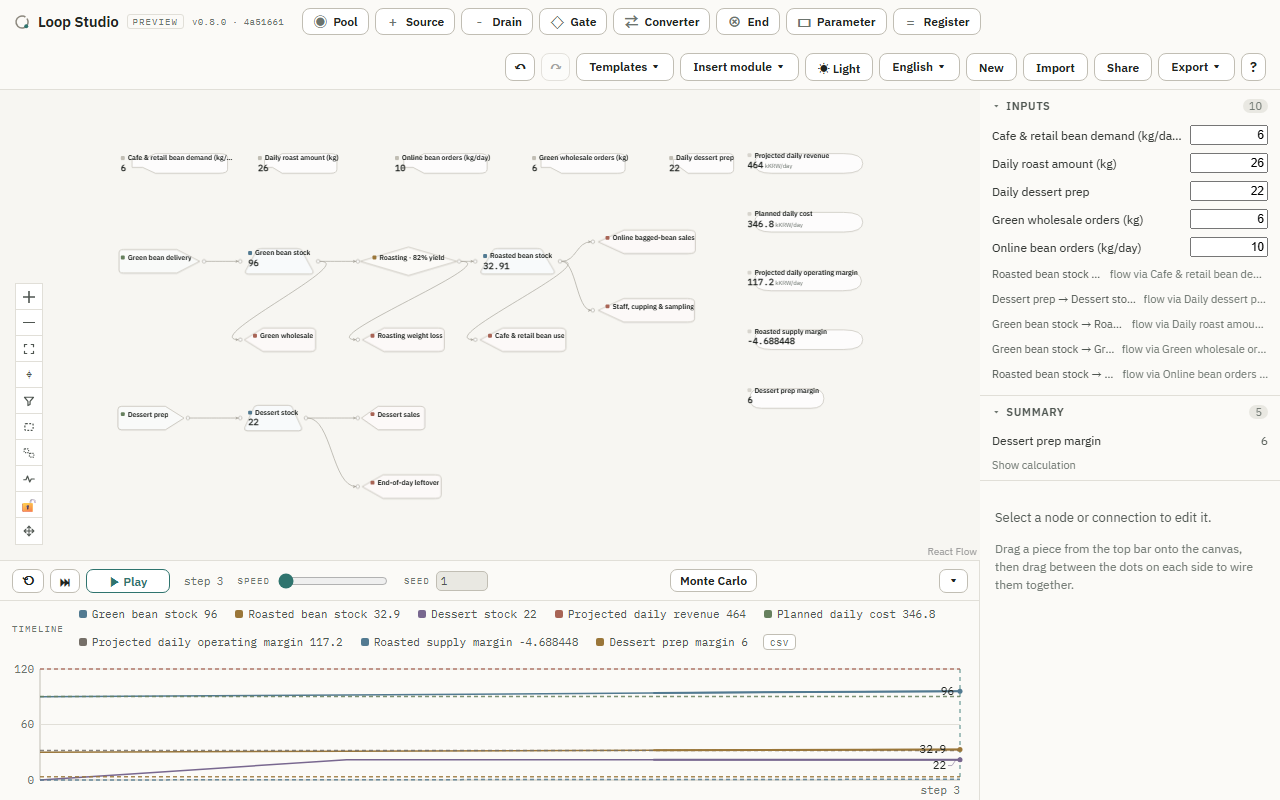
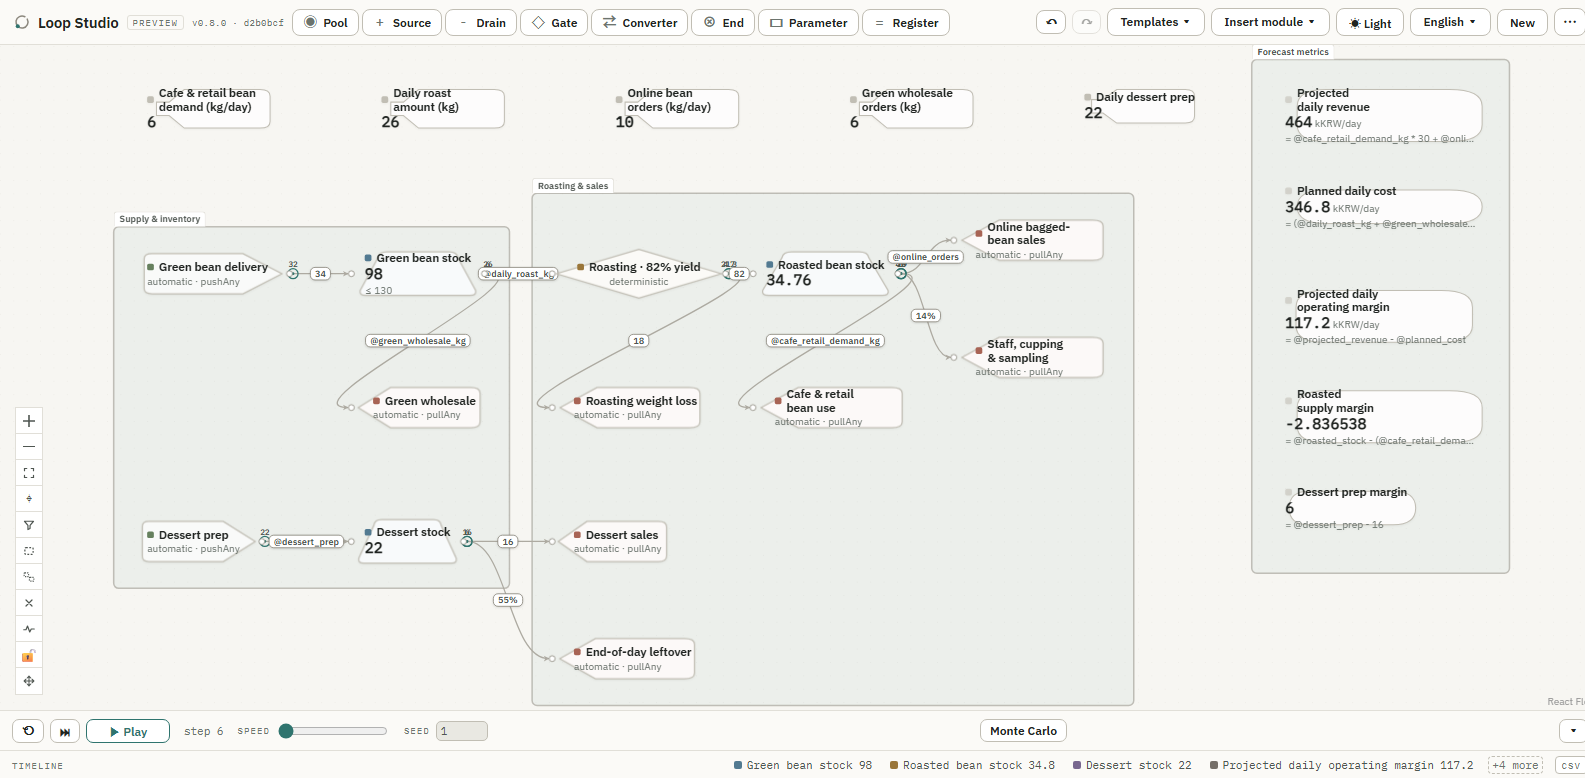
docs(readme): refresh for the current shipped state
- New hero image: the Coffee roastery Template on Production with its
  three localized zone frames (Supply & inventory / Roasting & sales /
  Forecast metrics), mid-run with the Timeline legend. 1585x778, 195 KB.
- Supported languages: English / 한국어 / 日本語 (was "EN + KO" in several
  places; the Releases changelog entry keeps its original wording with a
  parenthetical follow-up).
- Bundled Templates listed near the top: Balanced production line,
  Capacity deadlock, Early MMO progression, Coffee roastery.
- Mention the newer editor conveniences: multilingual Templates, group
  zone frames, the collapsible minimap, and the Timeline series picker.
- `examples/` layout row: drop the deleted `mmo-progression.ko.json`,
  add the two production-line samples.
- Template label overlay: it now also localizes the Coffee Template's
  group-frame titles, and re-seeds them on a language switch (a user
  rename is kept).

Docs only — no version change (stays v0.8.0), no code.

diff --git a/README.md b/README.md
@@ -1,6 +1,6 @@
 # Loop Studio
 
-![Loop Studio — the Coffee roastery Template, three steps in, with results building up in the Timeline](docs/assets/hero-coffee.png)
+![Loop Studio — the Coffee roastery Template grouped into three labelled zone frames (supply & inventory, roasting & sales, forecast metrics), a few steps into a run with the Timeline filling in](docs/assets/hero-coffee.png)
 
 ![A ~16-second walkthrough: loading the Coffee roastery Template, running it a few steps while the Timeline fills in, switching to the 97-node Early MMO progression example, then selecting a node and turning Focus on to dim everything outside its neighbourhood](docs/assets/demo.gif)
 
@@ -17,6 +17,12 @@ continuous-time equations and spatial physics are not directly supported (see
 [Future directions](#future-directions)).
 
 **Run it now — the live web app: <https://cozy-loop-studio.pages.dev>**
+
+The UI is available in **English**, **한국어**, and **日本語** (a runtime
+language menu; the choice is a local UI preference only). Four bundled
+**Templates** open in the current language: *Balanced production line*,
+*Capacity deadlock*, *Early MMO progression (levels 1–15)* (97 nodes), and
+*Coffee roastery operations flow*.
 
 > Status: **working preview** — **v0.8.0**. The diagram editor and the
 > simulation engine — deterministic,
@@ -42,20 +48,26 @@ continuous-time equations and spatial physics are not directly supported (see
 >
 > **New in v0.8.0:** three tracks —
 >
-> **Onboarding, part 2** — a **KO / EN localization** base (a runtime language
-> switch on a single bundle; the chosen language is a `localStorage`-only UI
+> **Onboarding, part 2** — a runtime **localization** base now shipping
+> **English, 한국어, and 日本語** (the chosen language is a `localStorage`-only UI
 > setting that never enters the GraphDoc, Workspace, Share link, or
 > `loop-revision/*` digest), full-app localization, a guided first-run tour, the
 > *Early MMO progression* example, and **contextual inline help** — four
 > situational, one-shot hints (an empty canvas, Monte Carlo's first open,
 > Review's first open, Focus/Filter discovery) plus a `Contextual help`
-> Help-menu entry — are all shipped.
+> Help-menu entry — are all shipped. Bundled **Templates** — including
+> *Early MMO progression* and the *Coffee roastery operations flow* — open in
+> the current language, and the Coffee Template also carries three labelled
+> **zone frames** whose titles follow the language switch.
 >
 > **Large-graph readability** ([`docs/large-graph-readability.md`](docs/large-graph-readability.md))
 > — an engine-neutral readability / UI feature set: a global hit-test rule +
 > 1-hop focus view, graph-derived filters, the `effective` / `evaluated` run
 > distinction, manual group frames + an opt-in activity overlay, an explicit
 > *Suggest frames* auto-clustering pass, and a five-preset frame accent colour.
+> Around it: a **collapsible minimap**, and a **Timeline series picker** so a
+> Template's first-run chart shows a curated set of pools / registers with the
+> rest one `+N more` click away.
 > **Saved frames** make a manual or promoted frame's `id` / `label` / `rect` /
 > `color` part of the document as a `loop-revision/5` **cosmetic** `frames`
 > block ([`SEMANTICS-R5.md`](SEMANTICS-R5.md), Frozen): it round-trips reload /
@@ -205,7 +217,7 @@ classification, or apply decision depends on them.
 | `src/components/` | Toolbar, canvas, inspector, custom node & edge views, Monte-Carlo dialog + charts |
 | `src/engine/` | Simulation engine — deterministic step, RNG, Monte Carlo, state connections |
 | `e2e/` | Playwright specs (app, portable `file://`, production build, PWA service worker, mobile view/run) |
-| `examples/` | Importable graphs and verification fixtures — `risky-factory.json`, the Early MMO progression and Coffee roastery Templates (`mmo-progression.json` + `.ko.json`, `coffee-roastery.json`), Engine-B / State / model-verification / playback-choreography fixtures each with an oracle, and the revision golden vectors `revision/` (`loop-revision/1` base + proposals + apply oracle), `revision-v2/`, `revision-v3/`, `revision-v5/`. See [`examples/README.md`](examples/README.md) |
+| `examples/` | Importable graphs and verification fixtures — `risky-factory.json`, the Early MMO progression and Coffee roastery Templates (`mmo-progression.json`, `coffee-roastery.json`) and the two production-line samples (`equilibrium.json`, `deadlock.json`), Engine-B / State / model-verification / playback-choreography fixtures each with an oracle, and the revision golden vectors `revision/` (`loop-revision/1` base + proposals + apply oracle), `revision-v2/`, `revision-v3/`, `revision-v5/`. See [`examples/README.md`](examples/README.md) |
 
 ## Roadmap
 
@@ -221,10 +233,10 @@ classification, or apply decision depends on them.
   - ✅ Label modifier — value semantics `loop-state/1`, event report `loop-state/2`
   - ✅ Inspector fields + in-canvas pulse / tint / flash
 - ✅ Onboarding, part 2 — **v0.8.0** ([`docs/localization.md`](docs/localization.md)) — the localization base, full-app localization, the guided first-run tour, the Early MMO example, and contextual inline help have all shipped
-  - ✅ Extensible localization base — registry-driven N-language structure with EN + KO as the first shipped locales; runtime language menu, atomic catalog activation, ICU formatting, EN fallback, and `localStorage`-only locale persistence. Locale state never enters GraphDoc / Workspace / Share / revision / digest / undo / simulation state
+  - ✅ Extensible localization base — a registry-driven N-language structure shipping **English, 한국어, and 日本語**; runtime language menu, atomic catalog activation, ICU formatting, EN fallback, and `localStorage`-only locale persistence. Locale state never enters GraphDoc / Workspace / Share / revision / digest / undo / simulation state
   - ✅ Full-app localization + acceptance validation — Toolbar, Canvas, Inspector, Timeline, Templates, Import / Export, Share, revision, PWA, dialogs, errors, empty states, accessibility text, KO typography, desktop / mobile visual references, invariance tests, and CI guards for catalog parity and hardcoded UI strings
   - ✅ Guided first-run tour ([`docs/guided-tour.md`](docs/guided-tour.md)) — a read-only six-step overlay (desktop + a separate mobile script), a Welcome card on the first run (`localStorage`-only, never serialized), and a Help (`?`) menu with `Take a tour` + `About Loop Studio`
-  - ✅ "Early MMO progression (levels 1–15)" example ([`docs/example-mmo-progression.md`](docs/example-mmo-progression.md)) — a shipped play-economy demo graph (three zone lanes, probabilistic combat with wins / setbacks / deaths, categorised loot, a gold economy with repair and resupply costs, a rising XP curve) as the third **Templates** entry, EN + KO; generalised, not game-specific, with by-construction accounting invariants and a tuned reach-15 window
+  - ✅ "Early MMO progression (levels 1–15)" example ([`docs/example-mmo-progression.md`](docs/example-mmo-progression.md)) — a shipped play-economy demo graph (three zone lanes, probabilistic combat with wins / setbacks / deaths, categorised loot, a gold economy with repair and resupply costs, a rising XP curve) as the third **Templates** entry, opening in the current language; generalised, not game-specific, with by-construction accounting invariants and a tuned reach-15 window
   - ✅ Contextual inline help ([`docs/contextual-inline-help.md`](docs/contextual-inline-help.md), `CIH`) — fills the gap the guided tour deliberately left: four situational, one-shot hints — an empty canvas, Monte Carlo's first open, Review's first open, and Focus/Filter discovery once a graph passes the auto-frame threshold — each shown once and re-armable ("Show again next time") from a **`Contextual help`** entry now live in both Help surfaces (desktop `?` menu, mobile More → Help). A three-tier priority defers to an open Monte Carlo / Review hint first, then an existing large-graph notice, then its own discovery hints, with a short cooldown after the guided tour closes so nothing piles up. Not a docs site, not video, not an interactive tutorial; presentation-only, same contract as the tour (§GT12) — no GraphDoc / digest / undo / simulation effect
 - ✅ Ship — **v0.4.0**
   - ✅ Workspace Export / Import (`loop-workspace/1`) — a graph file plus the run config, last distribution, timeline view, canvas, and a verified sim snapshot
@@ -273,8 +285,8 @@ classification, or apply decision depends on them.
     - ☐ Later (§MS10) — a dedicated assembly screen, a connection auto-helper, collapsible composite nodes, and any serialized `role` / `surfacedInputs` / `ports` field
   - ✅ Dense-graph pan usability ([`docs/dense-graph-pan.md`](docs/dense-graph-pan.md), `DGP`) — **shipped, real-phone verified**. On a packed graph there is no empty canvas to grab, so panning used to be near-impossible (mobile especially; the minimap is only a secondary aid). A transparent pan-capture overlay handles it: a one-finger drag past ~8px pans even when it starts on a node, live on mobile always and on desktop behind a session-only Pan mode toggle. A shorter tap still selects a **node** — or, failing that, the **nearest edge** within ~14px — and opens the Inspector (§DGP-C1). Two-finger pinch zoom is computed by the overlay itself (a first cut handing it to React Flow's own pinch never actually zoomed on a real device — §DGP-C4); wheel / trackpad-pinch zoom (mouse) is forwarded untouched; edit gestures are byte-for-byte unchanged when Pan mode is off. Native OS gestures are not suppressed but never leave the overlay stuck (§DGP-C2). Independent of Focus / Filter / frames / Activity overlay / selection; no GraphDoc / digest / undo change. Was sequenced **before** contextual inline help
   - order settled ([`docs/product-direction.md`](docs/product-direction.md) §PD8): large-graph readability first (done — the read/select problem was already reproducible in the shipped Early MMO example, it is smaller in scope with lower serialization risk, and its focus/filter substrate is a dependency of the module system's assembly screen), then the small module / template-composition system
-  - ✅ Template label overlay ([`docs/template-label-overlay.md`](docs/template-label-overlay.md)) — a shared **fresh-open** `nodeId → label` overlay so a bundled Template opens in the user's language from **one** English-canonical graph (no per-locale JSON copies). Applied once, on a menu open, current locale only; never re-translates an open / Imported / Shared / Workspace / autosaved document; `label` only (not ids / expr / `resourceType` / positions); a CI drift check for missing / stale entries. Templates 3 (MMO) and 4 (coffee) both open through it. No engine / schema / wire / save-format change
-  - ✅ "Coffee roastery operations flow" Template ([`docs/example-coffee-roastery.md`](docs/example-coffee-roastery.md)) — a **simplified operating-flow simulation**, not an ERP or a real-time monitoring system: a small Graph JSON (~23 nodes, one-day step, buy green beans → roast → sell across cafe / retail / online + dessert) shipped as the **4th Templates entry** (`커피 로스터리 운영 흐름`), opens editable, EN canonical + KO through the label overlay. The **first bundled `loop-model/2` graph** (schema `loop-studio/graph/2`): its **five surfaced Parameters** are `@param` flow references the engine resolves once per step, so changing any one moves a real stock trajectory — and a Summary of **planning-proxy** Registers (projected daily revenue / cost / operating margin in `kKRW/day`, plus two signed stock-cover proxies), which are projections on the planned levers, not realised or accounting figures. An external comprehension check has run ([`docs/example-coffee-roastery.md`](docs/example-coffee-roastery.md) §CR11.5): the simplified flow, naming, and five levers were understood; a completed before/after explanation of each lever's result direction was not demonstrated, so the result is partial and real-operations suitability is not claimed. No engine / schema / wire change
+  - ✅ Template label overlay ([`docs/template-label-overlay.md`](docs/template-label-overlay.md)) — a shared **fresh-open** overlay so a bundled Template opens in the user's language from **one** English-canonical graph (no per-locale JSON copies). Applied once, on a menu open, current locale only; never re-translates an open / Imported / Shared / Workspace / autosaved document; user-visible **text only** — node labels, and the Coffee Template's group-frame titles — never ids / expr / `resourceType` / positions; a CI drift check for missing / stale entries. Both the Early MMO and Coffee Templates open through it, and the same rule re-seeds the titles when the language is switched (a user rename is kept). No engine / schema / wire / save-format change
+  - ✅ "Coffee roastery operations flow" Template ([`docs/example-coffee-roastery.md`](docs/example-coffee-roastery.md)) — a **simplified operating-flow simulation**, not an ERP or a real-time monitoring system: a small Graph JSON (~23 nodes, one-day step, buy green beans → roast → sell across cafe / retail / online + dessert) shipped as the **4th Templates entry**, opens editable and in the current UI language (English / 한국어 / 日本語) through the label overlay — its node labels and its three **zone-frame titles** alike. The **first bundled `loop-model/2` graph** (schema `loop-studio/graph/2`): its **five surfaced Parameters** are `@param` flow references the engine resolves once per step, so changing any one moves a real stock trajectory — and a Summary of **planning-proxy** Registers (projected daily revenue / cost / operating margin in `kKRW/day`, plus two signed stock-cover proxies), which are projections on the planned levers, not realised or accounting figures. An external comprehension check has run ([`docs/example-coffee-roastery.md`](docs/example-coffee-roastery.md) §CR11.5): the simplified flow, naming, and five levers were understood; a completed before/after explanation of each lever's result direction was not demonstrated, so the result is partial and real-operations suitability is not claimed. No engine / schema / wire change
   - ✅ Example display units — the money Registers above read `kKRW/day`; the Early MMO example's reporting Registers read `gold` / `items` / `units`, its clock Pool is `Elapsed steps` (a step count, not wall time), and its water / food Pools carry a `(units)` suffix. Advisory display hints only — no calculation, trajectory, or Timeline change
   - ✅ Template-load fit — opening a Template now re-fits the camera to the new graph instead of keeping the previous one's pan / zoom (desktop and the mobile More → Templates path). Render-only; a file / Workspace import and manual pan are untouched
 
@@ -314,6 +326,9 @@ new capability.
   discovery past the auto-frame threshold), each re-armable ("Show again next
   time") from a `Contextual help` entry now on both Help surfaces, with a
   three-tier priority and a post-tour cooldown so nothing piles up.
+  *(Since v0.8.0: **日本語** has been added as a third shipped locale, and the
+  Coffee roastery Template now groups its graph into three labelled zone
+  frames whose titles follow the language switch.)*
 - **Large-graph readability** ([`docs/large-graph-readability.md`](docs/large-graph-readability.md))
   — a global hit-test fix (a node beats an overlapping edge / badge) plus a
   selection-driven 1-hop focus view, ephemeral filters by edge class /
